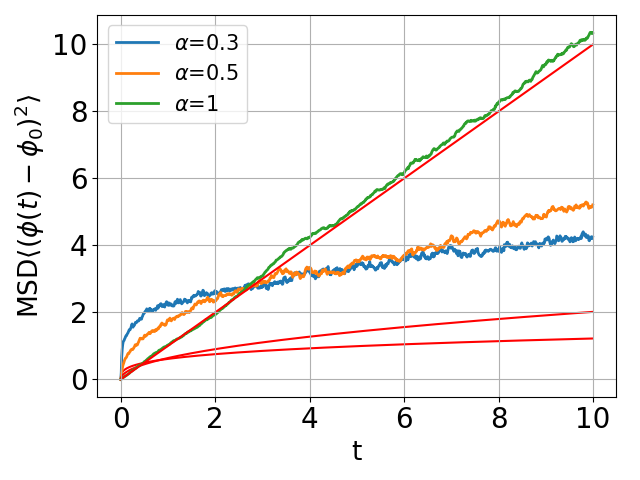
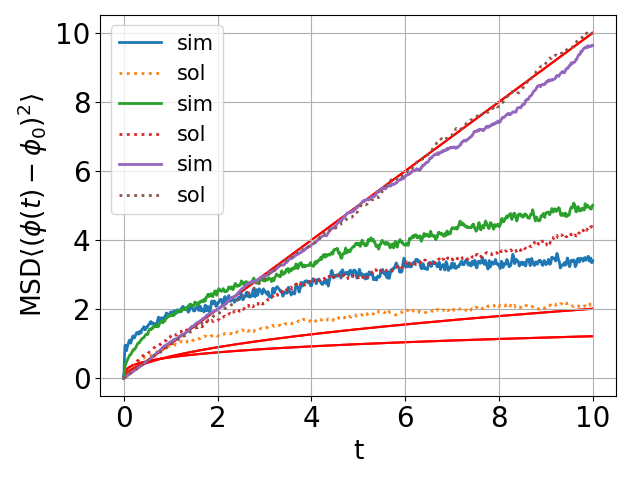
Working parallelization. Check results for angle.

diff --git a/src/parallelization.py b/src/parallelization.py
@@ -1,5 +1,13 @@
 import numpy as np
 import multiprocessing as mp
+from tqdm import tqdm
+
+def single_trajectory_helper(env, p, stored_matrix, lock):
+
+    r_trajectory = env.trajectory()
+
+    with lock:
+        stored_matrix[p, :] = r_trajectory
 
 def to_shared_array(array):
     shared_array = mp.Array('d', array.size, lock=False)
@@ -29,7 +37,7 @@ def run_trajectories_parallel(env):
     batch_size = 10
 
     # Initialize matrix
-    init_matrix = np.zeros((env.n, env.realizations), dtype = np.float64)  
+    init_matrix = np.zeros((env.realizations, env.n), dtype = np.float64)  
 
     # Create multiprocessing array to which the different processes can access to. 
     # Thanks to temp, we can write a numpy array to a mp array and initialize it in this case.
@@ -40,9 +48,9 @@ def run_trajectories_parallel(env):
 
     lock = mp.Lock()
     # execute in batches
-    for r in range(0, env.realizations, batch_size):
+    for r in tqdm(range(0, env.realizations, batch_size)):
         # execute all tasks in a batch
-        processes = [mp.Process(target = env.trajectory, 
+        processes = [mp.Process(target = single_trajectory_helper, 
                                 args=(env, p, stored_matrix, lock)) for p in range(r, r + batch_size)]
 
         # start all processes
@@ -51,3 +59,5 @@ def run_trajectories_parallel(env):
         # wait for all processes to complete
         for process in processes:
             process.join()
+    
+    return stored_matrix

diff --git a/src/world.py b/src/world.py
@@ -62,6 +62,8 @@ class angular_fbm():
     
     def trajectory(self):
         
+        np.random.seed()
+          
         self.make_B_H()
         
         # Loop over timesteps
@@ -105,7 +107,6 @@ class angular_fbm():
 
             self.phi_matrix_solution = np.vstack((self.phi_matrix_solution, r_trajectory))
             
-                
     def compute_phi_correlation(self):
         
         """
@@ -119,10 +120,13 @@ class angular_fbm():
             self.phi_corr: array of shape (n)
         """
         
-        if self.phi_matrix is None:
-            self.run()
+        # if self.phi_matrix is None:
+        #     print(self.phi_matrix)
+        #     self.run()
             
+        print(self.phi_matrix.shape)
         self.phi_corr = np.mean((self.phi_matrix - self.phi0)**2, axis=0)
+        print(self.phi_corr.shape)
         self.phi_corr_sol = np.mean((self.phi_matrix_solution - self.phi0)**2, axis=0)
 
     def compute_pdf(self, time, bins=150):

diff --git a/src/plotting.py b/src/plotting.py
@@ -16,7 +16,7 @@ import numpy as np
 from scipy.special import gamma
 import scipy.stats as stats
 import pandas as pd
-plt.style.use("/Users/monicaconte/PhD/Projects/Active_Matter/afbp/src/plotting_style.mplstyle")
+# plt.style.use("plotting_style.mplstyle")
 
 # Analytic functions for fitting
 
@@ -36,7 +36,7 @@ def plot_msd(ax, msd, delta_t, alpha, H, variable):
     ax.plot(time, msd, **msd_style[f'{variable}'])
     # ax.loglog(time, msd, lw=2, zorder=1, label=fr'$\alpha$={alpha}')
     # print((gamma(2*H)**2/(2*H*(gamma(H+1/2)**2))))
-    ax.plot(time, ((gamma(2*H)**2)/(H*(gamma(H+1/2)**2)))*time**(alpha), c='red', zorder=1)
+    ax.plot(time, ((gamma(2*H)**2)/(2*H*(gamma(H+1/2)**2)))*time**(alpha), c='red', zorder=1)
 
     ax.set_xlabel('t', fontsize = axis_fontsize)
     ax.tick_params(axis='both', labelsize=size_ticks)

diff --git a/src/script_phi.py b/src/script_phi.py
@@ -4,21 +4,20 @@ import plotting
 import time
 import matplotlib.cm as cm
 import matplotlib.colors as mcolors
+import parallelization
 
 start_time = time.time()
 
 # alphas = [0.1, 0.3, 0.5, 0.7, 0.9, 1]
-alphas = [0.3, 0.5]
+alphas = [0.3, 0.5, 1]
 # H = 0.1
-realizations = 100
+realizations = 1000
 Tf = 10
 h = 1e-2
 run = False
 envs=[]
 
-# tab10 = cm.get_cmap('tab10').colors
-# hex_colors = [mcolors.to_hex(c) for c in tab10]
-# print(hex_colors)
+
 for alpha in alphas:    
     
     H = (2-alpha)/2 
@@ -27,7 +26,7 @@ for alpha in alphas:
     
     if run:
         print("----Running for alpha", env.alpha)
-        env.run()
+        env.phi_matrix = parallelization.run_trajectories_parallel(env)
         env.run_solution()
         env.compute_phi_correlation()
         

diff --git a/src/integration.py b/src/integration.py
@@ -26,6 +26,6 @@ def convolution(f, g, t):
         t_i = t[:i+1] # subset of the time vector
         f_eval = f(t[i] - t_i)
         integrand = f_eval * g_eval_i
-        conv[i] = np.trapezoid(integrand, dx = dt)
+        conv[i] = np.trapz(integrand, dx = dt)
             
     return conv
